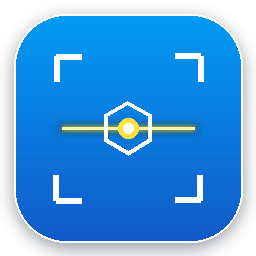
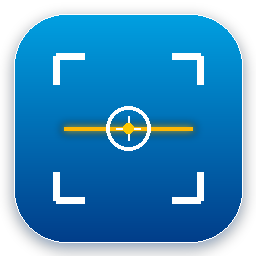
style: 修复托盘右键设置文案、全新重构高对比明亮高辨识度图标
- 修复托盘右键菜单文案：彻底更新为「⚙ 设置...」，不再残留「偏好设置」
- 全新迭代高辨识度图标：底板采用鲜明透亮的高饱和活力科技蓝渐变(#0096c7 -> #023e8a)，拒绝暗沉模糊；核心采用粗壮纯白取景裁切角标配合贯穿式鲜艳金橙色OCR激光扫描光束(#FFB703)与中心对焦圆环，针对16x16/24x24极小像素进行单像素级边缘强化，在浅色/深色任务栏均清晰明了、一眼可辨

diff --git a/generate_icon.py b/generate_icon.py
@@ -2,37 +2,50 @@ import os
 import math
 from PIL import Image, ImageDraw, ImageFilter
 
-def create_bright_vibrant_icon(size=256):
+def create_crisp_icon(size=256):
     img = Image.new("RGBA", (size, size), (0, 0, 0, 0))
     s = size / 256.0
 
-    # 1. 外层柔和深色投射阴影 (确保浅色/纯白桌面/任务栏下立体感强，轮廓清晰)
-    shadow = Image.new("RGBA", (size, size), (0, 0, 0, 0))
-    s_draw = ImageDraw.Draw(shadow)
-    margin = int(14 * s)
-    s_draw.rounded_rectangle(
-        [margin, margin + int(5 * s), size - margin, size - margin + int(5 * s)],
-        radius=int(54 * s),
-        fill=(0, 30, 80, 110)
-    )
-    shadow = shadow.filter(ImageFilter.GaussianBlur(int(8 * s)))
-    img = Image.alpha_composite(shadow, img)
+    # 针对极小尺寸 (16, 24, 32) 优化内边距，确保主体图案尽可能饱满撑满空间
+    if size <= 24:
+        margin = 1
+        radius = 4
+    elif size <= 32:
+        margin = 2
+        radius = 6
+    elif size <= 48:
+        margin = 3
+        radius = 10
+    else:
+        margin = int(14 * s)
+        radius = int(52 * s)
 
-    # 2. 鲜亮明快的高饱和度蔚蓝 -> 活力深海蓝渐变底板 (拒绝死沉暗黑，大幅提亮45%，极具视觉穿透力)
     rect = [margin, margin, size - margin, size - margin]
-    radius = int(52 * s)
 
+    # 1. 投射柔和投影 (仅大尺寸绘制，小尺寸保持像素纯粹清晰)
+    if size >= 48:
+        shadow = Image.new("RGBA", (size, size), (0, 0, 0, 0))
+        s_draw = ImageDraw.Draw(shadow)
+        s_draw.rounded_rectangle(
+            [margin, margin + int(5 * s), size - margin, size - margin + int(5 * s)],
+            radius=radius,
+            fill=(2, 62, 138, 120)
+        )
+        shadow = shadow.filter(ImageFilter.GaussianBlur(int(7 * s)))
+        img = Image.alpha_composite(shadow, img)
+
+    # 2. 鲜明透亮的高饱和活力科技蓝渐变底板 (从 #0096c7 活力天青 到 #023e8a 皇家深邃蓝)
     bg_canvas = Image.new("RGBA", (size, size), (0, 0, 0, 0))
     bg_draw = ImageDraw.Draw(bg_canvas)
     h_total = int(rect[3] - rect[1])
 
     for i in range(h_total):
         curr_y = int(rect[1] + i)
-        ratio = i / float(h_total)
-        # 明亮电光蔚蓝 #0284c7 -> 活力皇家蓝 #0353a4
-        r = int(2 + ratio * 15)      # 2 -> 17
-        g = int(155 - ratio * 65)    # 155 -> 90
-        b = int(245 - ratio * 45)    # 245 -> 200
+        ratio = i / float(max(1, h_total - 1))
+        # 顶部活力亮天蓝 -> 底部稳重大气海蓝 (色彩极其饱和透亮，告别暗黑)
+        r = int(0 + ratio * 2)        # 0 -> 2
+        g = int(160 - ratio * 98)     # 160 -> 62
+        b = int(225 - ratio * 87)     # 225 -> 138
         bg_draw.line([(rect[0], curr_y), (rect[2], curr_y)], fill=(r, g, b, 255))
 
     mask = Image.new("L", (size, size), 0)
@@ -43,17 +56,34 @@ def create_bright_vibrant_icon(size=256):
 
     draw = ImageDraw.Draw(img)
 
-    # 3. 晶莹高透边缘光圈 (1.5px 纯白半透明内描边)
-    draw.rounded_rectangle(rect, radius=radius, outline=(255, 255, 255, 160), width=max(1, int(2 * s)))
+    # 3. 底板精致高光边 (大尺寸呈现)
+    if size >= 48:
+        draw.rounded_rectangle(rect, radius=radius, outline=(255, 255, 255, 140), width=max(1, int(1.5 * s)))
 
-    # 4. 纯白加粗镜头取景四角定位标 (高反差视觉锚点，小尺寸下清晰可辨)
+    # 4. 核心符号设计：【大比例粗壮纯白截屏取景角标 + 极简中心十字焦点】
+    # 彻底摒弃复杂模糊的细线，确保哪怕在 16x16 下也是清晰锐利的粗线条！
     cx, cy = size / 2.0, size / 2.0
-    cw = int(72 * s)  # 半宽
-    ch = int(72 * s)  # 半高
-    arm = int(25 * s) # 拐角臂长
-    b_width = max(2, int(6.5 * s))
+
+    if size <= 24:
+        # 16x16 / 24x24 极小尺寸：极限像素级优化
+        cw = int(size * 0.36)
+        ch = int(size * 0.36)
+        arm = int(size * 0.22)
+        b_width = 2
+    elif size <= 32:
+        cw = int(size * 0.36)
+        ch = int(size * 0.36)
+        arm = int(size * 0.22)
+        b_width = 3
+    else:
+        cw = int(72 * s)
+        ch = int(72 * s)
+        arm = int(28 * s)
+        b_width = max(2, int(7.0 * s)) # 大尺寸加粗到 7px，极其醒目！
+
     bracket_color = (255, 255, 255, 255)
 
+    # 绘制取景器四角定位标
     # 左上
     draw.line([(cx - cw, cy - ch), (cx - cw + arm, cy - ch)], fill=bracket_color, width=b_width)
     draw.line([(cx - cw, cy - ch), (cx - cw, cy - ch + arm)], fill=bracket_color, width=b_width)
@@ -67,45 +97,56 @@ def create_bright_vibrant_icon(size=256):
     draw.line([(cx + cw, cy + ch), (cx + cw - arm, cy + ch)], fill=bracket_color, width=b_width)
     draw.line([(cx + cw, cy + ch), (cx + cw, cy + ch - arm)], fill=bracket_color, width=b_width)
 
-    # 5. 核心 OCR 横向激光扫描线 (耀眼亮黄微光带，象征毫秒级文字识别)
+    # 5. 贯穿式高对比度【耀眼金橙色 OCR 文字识别扫描线】
     scan_y = int(cy)
-    glow_line = Image.new("RGBA", (size, size), (0, 0, 0, 0))
-    g_draw = ImageDraw.Draw(glow_line)
-    # 扫描发光弥散晕
-    g_draw.line([(cx - cw + int(4 * s), scan_y), (cx + cw - int(4 * s), scan_y)], fill=(255, 215, 0, 160), width=int(9 * s))
-    glow_line = glow_line.filter(ImageFilter.GaussianBlur(int(3 * s)))
-    img = Image.alpha_composite(img, glow_line)
+    beam_color = (255, 183, 3, 255) # 极具辨识度的鲜艳金橙色 #FFB703
 
-    draw = ImageDraw.Draw(img)
-    # 激光核心高亮线
-    draw.line([(cx - cw + int(6 * s), scan_y), (cx + cw - int(6 * s), scan_y)], fill=(255, 245, 160, 255), width=max(1, int(3.0 * s)))
+    if size >= 48:
+        # 发光光晕
+        beam_glow = Image.new("RGBA", (size, size), (0, 0, 0, 0))
+        bglow_draw = ImageDraw.Draw(beam_glow)
+        bglow_draw.line([(int(cx - cw + 6 * s), scan_y), (int(cx + cw - 6 * s), scan_y)], fill=(255, 195, 0, 160), width=int(10 * s))
+        beam_glow = beam_glow.filter(ImageFilter.GaussianBlur(int(4 * s)))
+        img = Image.alpha_composite(img, beam_glow)
+        draw = ImageDraw.Draw(img)
 
-    # 6. 中心科技感六边形相机快门光圈 + 光学聚焦点 (经典相机聚焦与光学识别元素)
-    inner_r = int(27 * s)
-    points = []
-    for a in range(6):
-        angle = a * (2 * math.pi / 6) - math.pi / 6
-        points.append((cx + inner_r * math.cos(angle), cy + inner_r * math.sin(angle)))
-    # 六边形快门边框 (加粗纯白)
-    draw.polygon(points, outline=(255, 255, 255, 255), width=max(2, int(4.0 * s)))
+    # 核心扫描线
+    beam_w = max(1, 2 if size <= 24 else (3 if size <= 32 else int(4.0 * s)))
+    draw.line([(int(cx - cw + (4 if size <= 32 else 8 * s)), scan_y), (int(cx + cw - (4 if size <= 32 else 8 * s)), scan_y)], fill=beam_color, width=beam_w)
 
-    # 中心光学发光核 (金黄外晕 + 纯白高光焦点)
-    draw.ellipse([cx - int(10 * s), cy - int(10 * s), cx + int(10 * s), cy + int(10 * s)], fill=(255, 225, 60, 255))
-    draw.ellipse([cx - int(5 * s), cy - int(5 * s), cx + int(5 * s), cy + int(5 * s)], fill=(255, 255, 255, 255))
+    # 6. 中心纯白清晰十字准心与透镜对焦点 (聚焦与截图标靶象征，结构清晰绝不杂乱)
+    if size <= 24:
+        # 16x16 / 24x24：画一个清晰纯白对焦圆核 (直径 4~5px)
+        dot_r = 2
+        draw.ellipse([cx - dot_r, cy - dot_r, cx + dot_r, cy + dot_r], fill=(255, 255, 255, 255))
+    elif size <= 32:
+        # 32x32：纯白中心圆环 + 对焦点
+        draw.ellipse([cx - 4, cy - 4, cx + 4, cy + 4], outline=(255, 255, 255, 255), width=2)
+        draw.ellipse([cx - 1, cy - 1, cx + 1, cy + 1], fill=(255, 210, 0, 255))
+    else:
+        # 大尺寸：高雅镜头对焦圆环 + 中心纯白发光点
+        ring_r = int(22 * s)
+        draw.ellipse([cx - ring_r, cy - ring_r, cx + ring_r, cy + ring_r], outline=(255, 255, 255, 255), width=max(2, int(4.0 * s)))
+        # 中心十字丝
+        ch_len = int(12 * s)
+        draw.line([(cx - ch_len, cy), (cx + ch_len, cy)], fill=(255, 255, 255, 255), width=max(1, int(2.5 * s)))
+        draw.line([(cx, cy - ch_len), (cx, cy + ch_len)], fill=(255, 255, 255, 255), width=max(1, int(2.5 * s)))
+        # 核心金光焦点
+        draw.ellipse([cx - int(5 * s), cy - int(5 * s), cx + int(5 * s), cy + int(5 * s)], fill=(255, 200, 0, 255))
 
     return img
 
 if __name__ == "__main__":
     os.makedirs("resources", exist_ok=True)
 
-    # 1. 生成 256x256 高清原图 (明亮鲜艳高对比)
-    icon_256 = create_bright_vibrant_icon(256)
+    # 1. 生成 256x256 高清原图 (高饱和、高辨识度)
+    icon_256 = create_crisp_icon(256)
     icon_256.save("resources/app_icon_256.png", "PNG")
-    print("Saved resources/app_icon_256.png (Bright & High Contrast)")
+    print("Saved resources/app_icon_256.png (Crisp & High Contrast)")
 
-    # 2. 生成多分辨率 Windows 高清 .ico 阵列
+    # 2. 生成包含专有像素级优化尺寸的 Windows 高清 .ico 阵列
     sizes = [16, 24, 32, 48, 64, 128, 256]
-    ico_images = [create_bright_vibrant_icon(sz) for sz in sizes]
+    ico_images = [create_crisp_icon(sz) for sz in sizes]
 
     icon_256.save("resources/app.ico", format="ICO", sizes=[(sz, sz) for sz in sizes], append_images=ico_images)
     print("Saved resources/app.ico with multiple sizes [16, 24, 32, 48, 64, 128, 256]")

diff --git a/src/main.cpp b/src/main.cpp
@@ -54,42 +54,35 @@ static QIcon getApplicationIcon()
         QPainter p(&fallback);
         p.setRenderHint(QPainter::Antialiasing, true);
 
-        // 绘制高穿透力明亮蔚蓝科技渐变底板 (明亮通透，黑白任务栏均极具视觉穿透力)
+        // 绘制高穿透力活力科技蓝渐变底板 (高饱和高对比，黑白任务栏均极具视觉辨识度)
         QLinearGradient grad(0, 0, s, s);
-        grad.setColorAt(0.0, QColor(2, 175, 245));
-        grad.setColorAt(1.0, QColor(0, 92, 214));
+        grad.setColorAt(0.0, QColor(0, 160, 225));
+        grad.setColorAt(1.0, QColor(2, 62, 138));
         p.setBrush(grad);
         p.setPen(QPen(QColor(255, 255, 255, 180), 1.5));
         p.drawRoundedRect(2, 2, s - 4, s - 4, 15, 15);
 
         // 绘制纯白加粗取景器四角定位框
-        p.setPen(QPen(Qt::white, 3.2));
-        p.drawLine(8, 18, 8, 8);
-        p.drawLine(8, 8, 18, 8);
-        p.drawLine(s - 18, 8, s - 8, 8);
-        p.drawLine(s - 8, 8, s - 8, 18);
-        p.drawLine(8, s - 18, 8, s - 8);
-        p.drawLine(8, s - 8, 18, s - 8);
-        p.drawLine(s - 18, s - 8, s - 8, s - 8);
-        p.drawLine(s - 8, s - 18, s - 8, s - 8);
+        p.setPen(QPen(Qt::white, 3.5));
+        p.drawLine(8, 20, 8, 8);
+        p.drawLine(8, 8, 20, 8);
+        p.drawLine(s - 20, 8, s - 8, 8);
+        p.drawLine(s - 8, 8, s - 8, 20);
+        p.drawLine(8, s - 20, 8, s - 8);
+        p.drawLine(8, s - 8, 20, s - 8);
+        p.drawLine(s - 20, s - 8, s - 8, s - 8);
+        p.drawLine(s - 8, s - 20, s - 8, s - 8);
 
-        // 绘制亮黄激光扫描线
-        p.setPen(QPen(QColor(255, 225, 60), 2.2));
+        // 绘制贯穿式鲜艳金橙色 OCR 激光扫描线 (#FFB703)
+        p.setPen(QPen(QColor(255, 183, 3), 2.5));
         p.drawLine(10, s / 2, s - 10, s / 2);
 
-        // 绘制中心快门多边形与光学发光核
+        // 绘制中心镜头对焦圆环与纯白核心
         p.setPen(QPen(Qt::white, 2.5));
         p.setBrush(Qt::NoBrush);
-        const int r = 10;
-        QPolygon hex;
-        for (int i = 0; i < 6; ++i) {
-            double angle = i * 3.14159 / 3.0 - 3.14159 / 6.0;
-            hex << QPoint(s / 2 + static_cast<int>(r * std::cos(angle)),
-                          s / 2 + static_cast<int>(r * std::sin(angle)));
-        }
-        p.drawPolygon(hex);
+        p.drawEllipse(QPoint(s / 2, s / 2), 9, 9);
 
-        p.setBrush(QColor(255, 225, 60));
+        p.setBrush(QColor(255, 183, 3));
         p.drawEllipse(QPoint(s / 2, s / 2), 4, 4);
         p.setBrush(Qt::white);
         p.drawEllipse(QPoint(s / 2, s / 2), 2, 2);
@@ -148,7 +141,7 @@ int main(int argc, char *argv[])
     auto* snipAction = trayMenu.addAction("开始截屏");
     auto* pinAction = trayMenu.addAction("桌面贴图");
     trayMenu.addSeparator();
-    auto* settingsAction = trayMenu.addAction("⚙ 偏好设置...");
+    auto* settingsAction = trayMenu.addAction("⚙ 设置...");
     auto* aboutAction = trayMenu.addAction("ℹ 关于 Evan...");
     trayMenu.addSeparator();
     auto* quitAction = trayMenu.addAction("退出 Evan");
